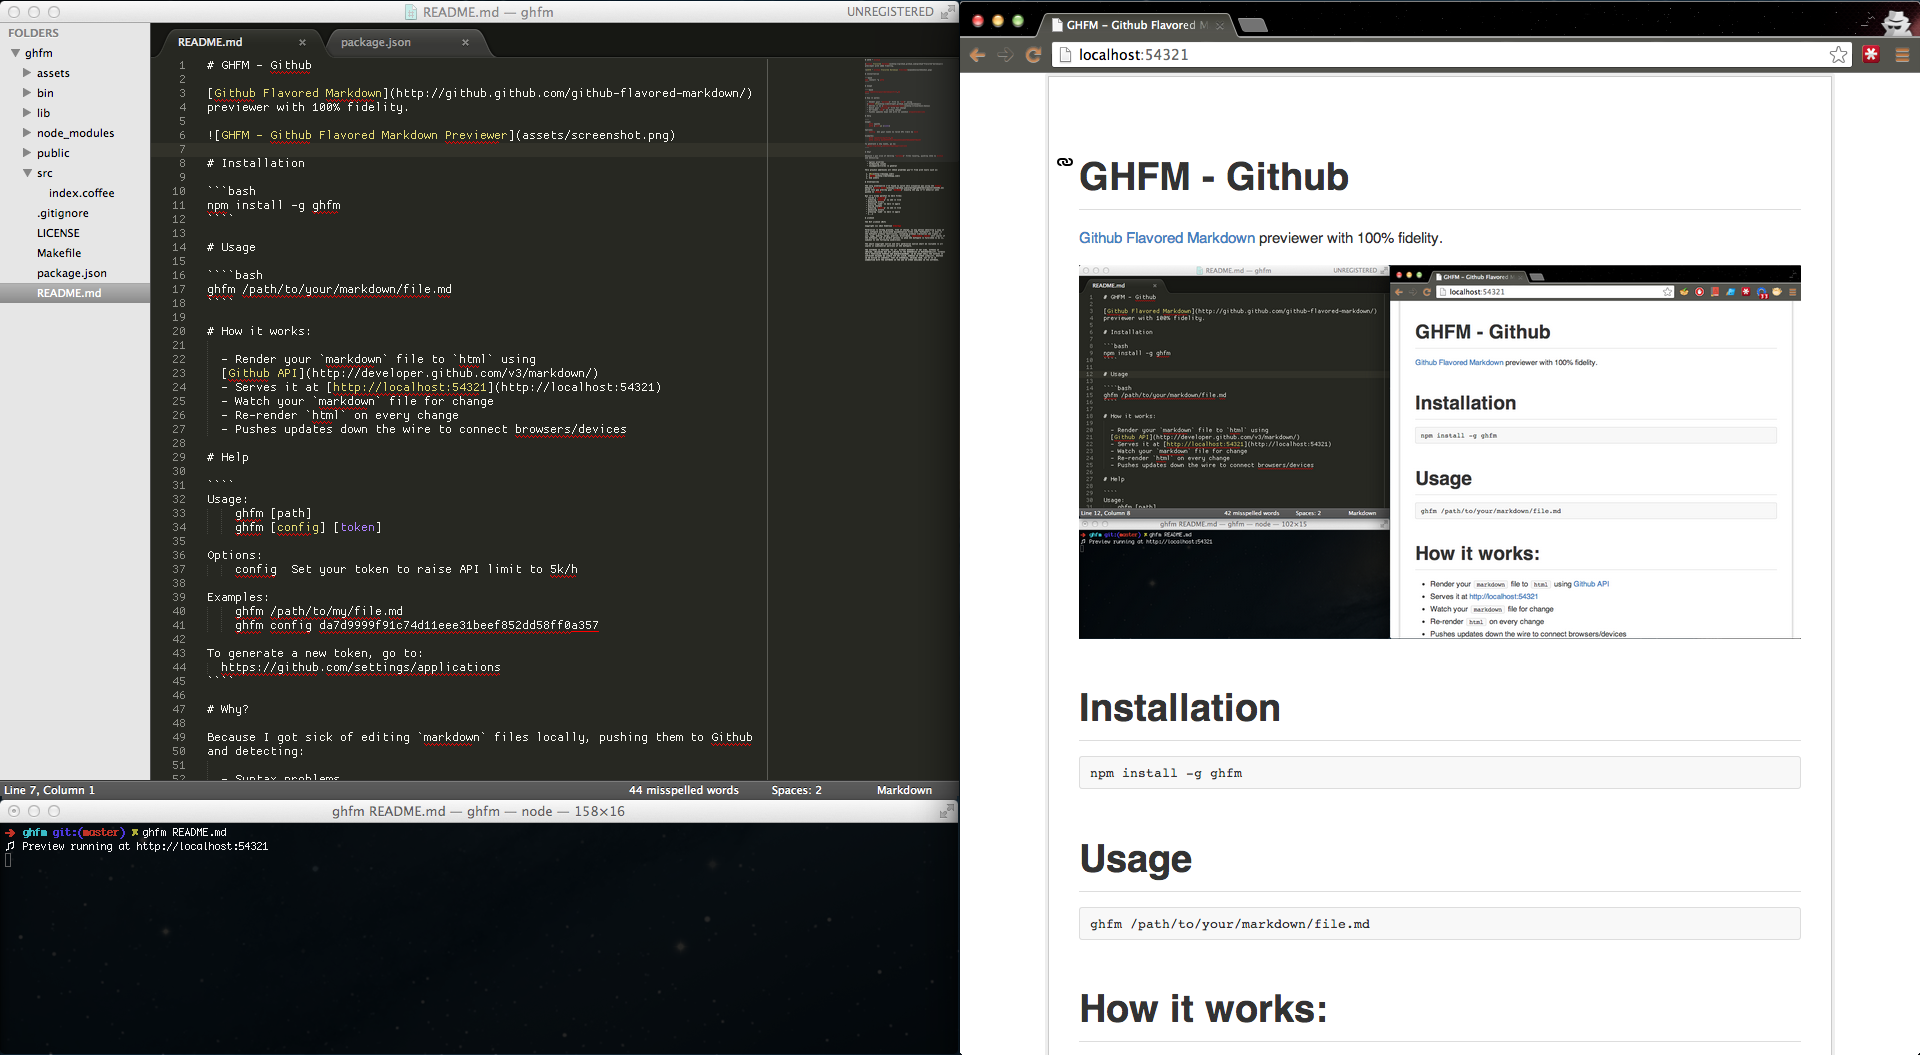
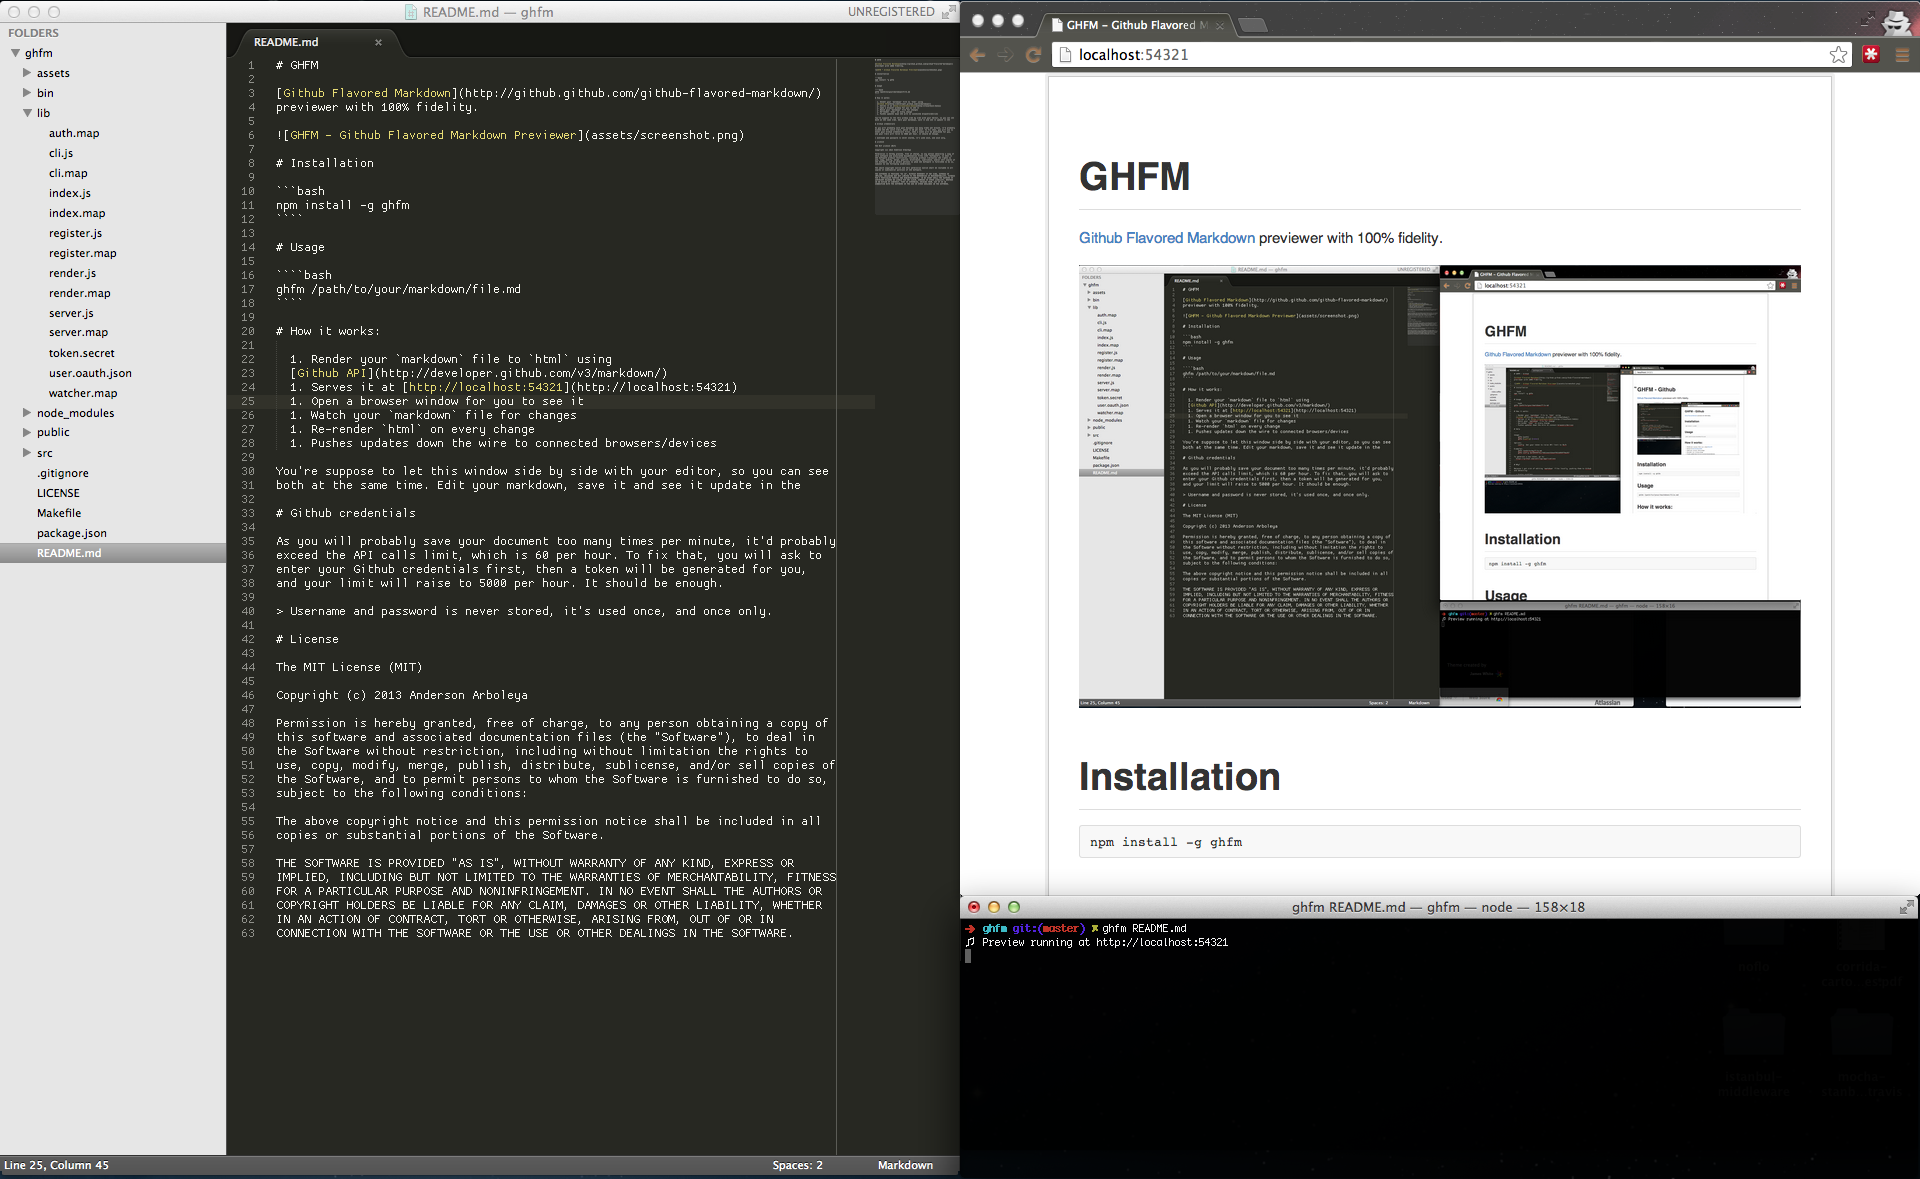
Editing README and updating screenshot

diff --git a/README.md b/README.md
@@ -1,4 +1,4 @@
-# GHFM - Github
+# GHFM
 
 [Github Flavored Markdown](http://github.github.com/github-flavored-markdown/)
 previewer with 100% fidelity.
@@ -19,50 +19,22 @@ ghfm /path/to/your/markdown/file.md
 
 # How it works:
   
-  - Render your `markdown` file to `html` using
+  1. Render your `markdown` file to `html` using
   [Github API](http://developer.github.com/v3/markdown/)
-  - Serves it at [http://localhost:54321](http://localhost:54321)
-  - Watch your `markdown` file for change
-  - Re-render `html` on every change
-  - Pushes updates down the wire to connect browsers/devices
+  1. Serves it at [http://localhost:54321](http://localhost:54321)
+  1. Open a browser window for you to see it
+  1. Watch your `markdown` file for changes
+  1. Re-render `html` on every change
+  1. Pushes updates down the wire to connected browsers/devices
 
-# Help
+# Github credentials
 
-````
-GHFM v0.1.0
-Github Flavored Markdown previwer
+As you will probably save your document too many times per minute, it'd probably
+exceed the API calls limit, which is 60 per hour. To fix that, you will ask to
+enter your Github credentials first, then a token will be generated for you,
+and your limit will raise to 5000 per hour. It should be enough.
 
-Usage:
-  ghfm [path]
-
-Examples:
-    ghfm /path/to/my/file.md
-````
-
-# Why?
-
-Because I got sick of editing `markdown` files locally, pushing them to Github
-and detecting:
-
-  - Syntax problems
-  - Formatting issues
-  - Incompatibilities in general
-
-This project addresses all these problems you'll find with tools such as:
-
- 1. [Mou](http://mouapp.com/)
- 1. [Marked](http://markedapp.com/)
- 1. And others
-
-# Alternatives
-
-The only alternative I've found to solve this situation was using the Github
-default [Online Editor](https://github.com/arboleya/ghfm/edit/master/README.md)
-which lets you preview your `markdown` exactly the way it'll behavior when
-pushed to Github.
-
-But it's kinda painful to edit files inside a `textarea` and keep switching
-between `code` and `preview` mode, without mentioning the slowness.
+> Username and password is never stored, it's used once, and once only.
 
 # License
 
